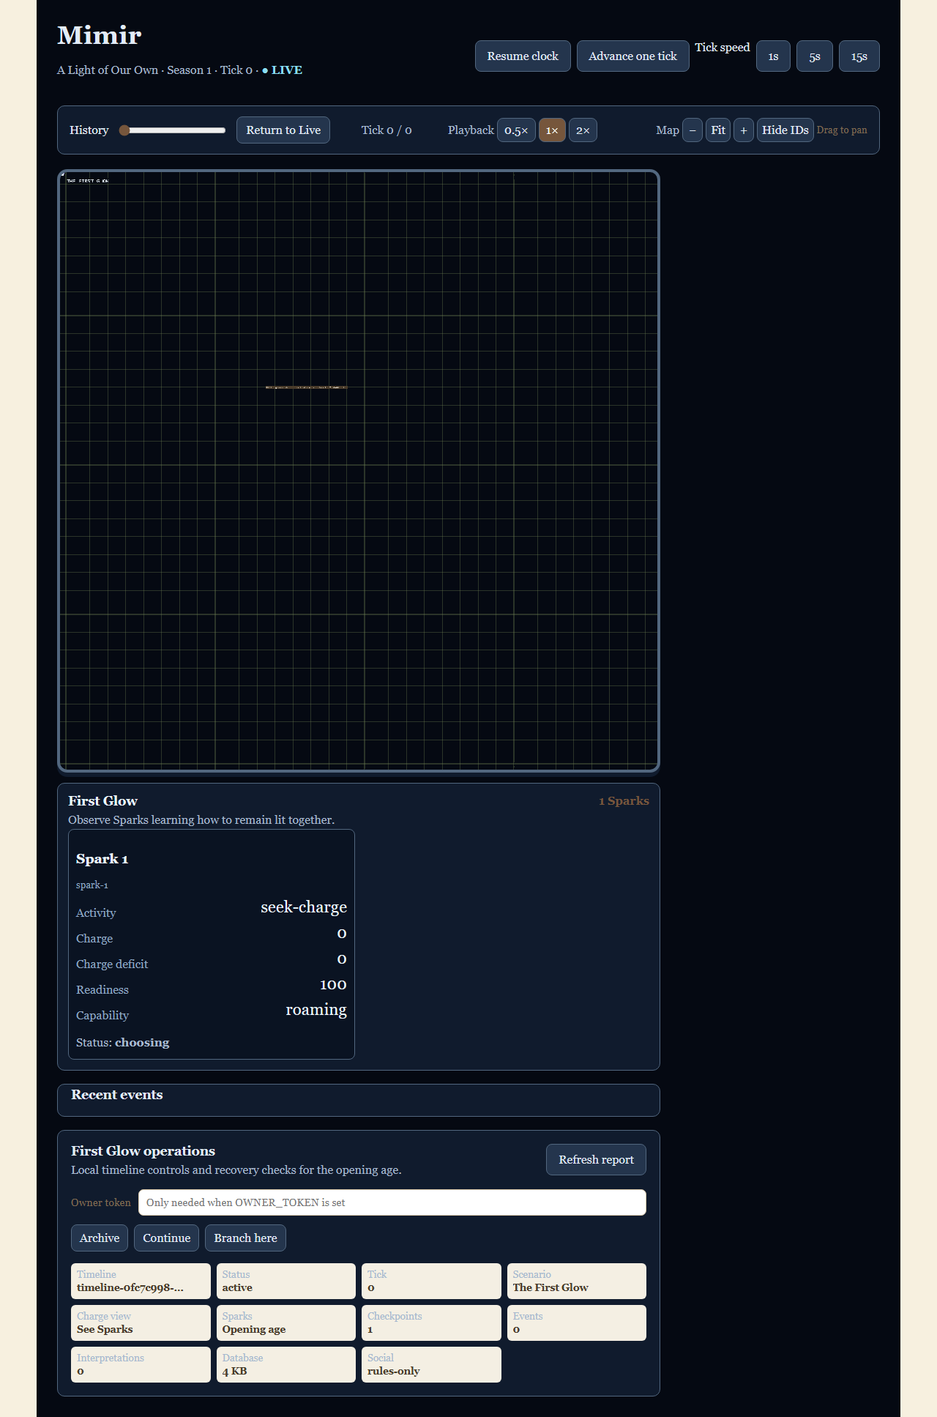
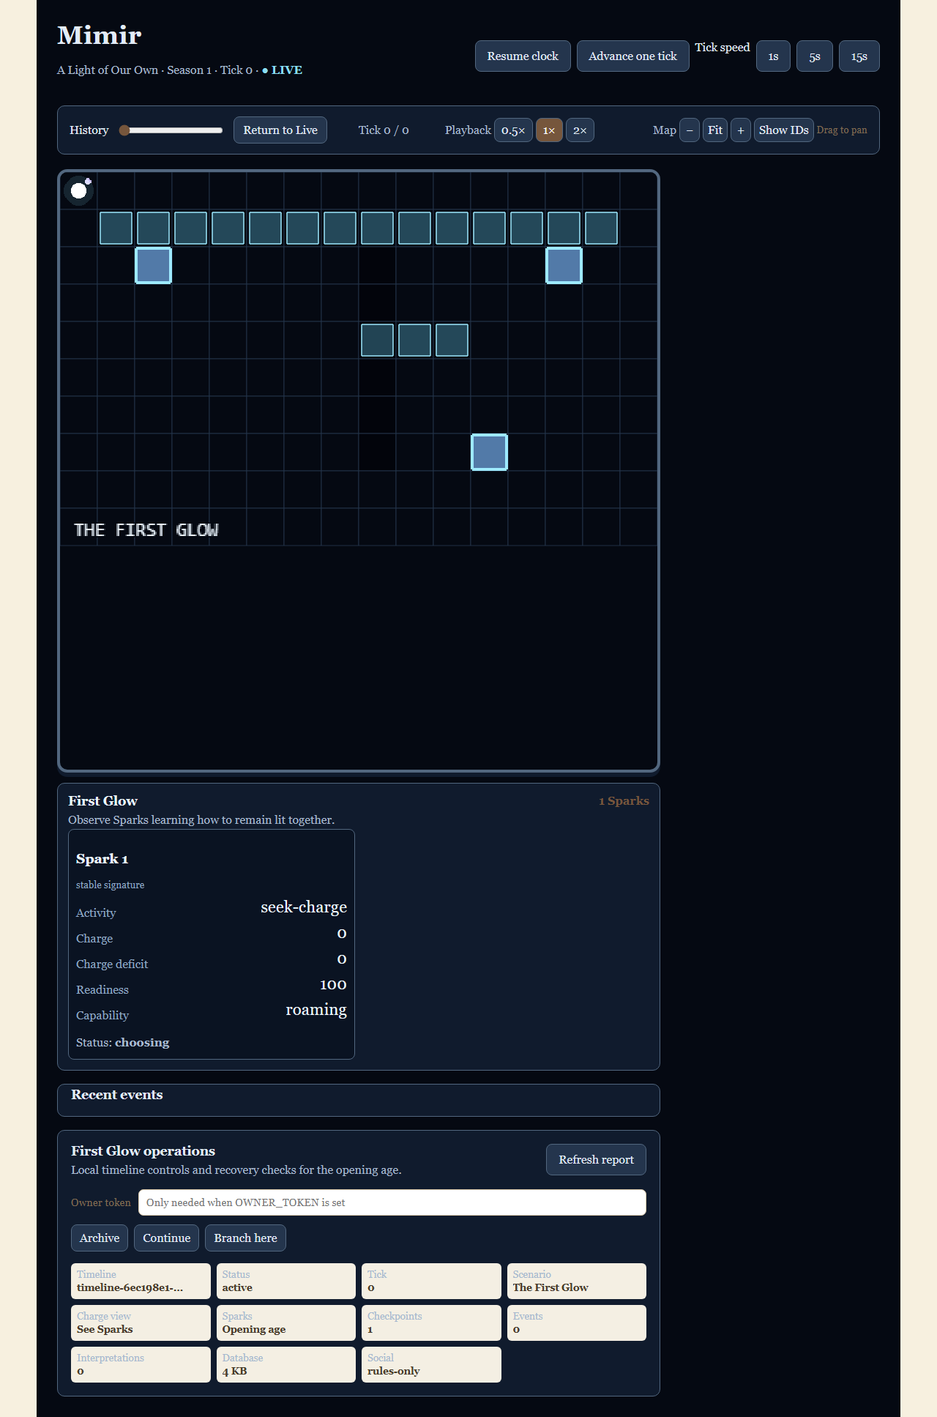
Verify First Glow scene geometry and playback

diff --git a/packages/web/src/main.tsx b/packages/web/src/main.tsx
@@ -15,6 +15,7 @@ type Trade = { id: string; tick: number; villagerId: string; fromSettlementId: s
 type Hazard = { id: string; kind: string; status: string; summary: string };
 type State = { tick: number; season: number; foodReserve: number; scenario: { name: string; seasonTickLimit: number }; villagers: Villager[]; settlements?: Settlement[]; tradeHistory?: Trade[]; weather?: { kind: string; severity: number; forecast: string }; hazards?: Hazard[]; dilemmaHistory?: DilemmaResolution[]; sharedStore?: SharedStore; worldDefinition?: WorldDefinition; worldRuntime?: { blockedObjectIds: string[] }; spatialModel?: "structured-v1" | "structured-v2" | "legacy-backdrop-v0"; simulationVersion?: string; movementModel?: MovementModel; structuredState?: unknown; firstGlowState?: { settlements: { id: string; bundle: unknown; sparks: Spark[]; runtime: { objects: { objectId: string; blocked: boolean }[] } }[] } };
 type Spark = FirstGlowSpark;
+type FirstGlowBundle = { id: string; width: number; height: number; terrain: string[][]; bundle: { contentHash: string; assetVersion: string }; objectDefinitions: Record<string, { footprint: Cell[]; slots: { offset: Cell }[]; blocksMovement: boolean; capabilities: string[] }>; objects: { id: string; definitionId: string; origin: Cell }[]; surfaces: { id: string; cells: TilePosition[]; movementCost: number; enabled: boolean }[]; spawns: { id: string; cell: TilePosition; settlementId: string; entrance?: boolean }[]; layers: { id: string; role: string; order: number }[] };
 type Event = { id: string; tick: number; message: string; kind: string };
 type Metric = { tick: number; foodReserve: number; averageTrust: number; hungryVillagers: number; travelingVillagers: number; collectingVillagers: number };
 type CharacterCard = { id: string; name: string; tradition: string; disposition: string; strength: string; tension: string; beliefSignals: { cooperation: number; selfReliance: number; reflection: number } };
@@ -36,7 +37,12 @@ function structuredWorldDefinition(structuredState: unknown, settlementId: strin
   return { schemaVersion: 1, id: bundle.id, bundle: { bundleId: bundle.id, schemaVersion: 1, contentHash: bundle.bundle.contentHash, assetVersion: bundle.bundle.assetVersion }, width: bundle.width, height: bundle.height, terrain: bundle.terrain as WorldDefinition["terrain"], objects: bundle.objects.map((object) => ({ id: object.id, definitionId: object.definitionId as WorldDefinition["objects"][number]["definitionId"], position: object.origin })), definitions: definitions as WorldDefinition["definitions"] };
 }
 
-function VillageCanvas({ villagers, sparks = [], worldDefinition, worldRuntime, playbackRate, zoom, tick, history, debugOverlay = import.meta.env.DEV }: { villagers: Villager[]; sparks?: Spark[]; worldDefinition?: WorldDefinition; worldRuntime?: { blockedObjectIds: string[] }; playbackRate: number; zoom: number; tick: number; history: boolean; debugOverlay?: boolean }) {
+function firstGlowWorldDefinition(bundle: FirstGlowBundle): WorldDefinition & { firstGlowBundle: FirstGlowBundle } {
+  const definitions = Object.fromEntries(Object.entries(bundle.objectDefinitions).map(([id, definition]) => [id, { id, footprint: definition.footprint, interactionSlots: definition.slots.map(slot => slot.offset), blocksMovement: definition.blocksMovement, activities: definition.capabilities }]));
+  return { schemaVersion: 1, id: bundle.id, bundle: { bundleId: bundle.id, schemaVersion: 1, contentHash: bundle.bundle.contentHash, assetVersion: bundle.bundle.assetVersion }, width: bundle.width, height: bundle.height, terrain: bundle.terrain as WorldDefinition["terrain"], objects: bundle.objects.map(object => ({ id: object.id, definitionId: object.definitionId as WorldDefinition["objects"][number]["definitionId"], position: object.origin })), definitions: definitions as WorldDefinition["definitions"], firstGlowBundle: bundle };
+}
+
+function VillageCanvas({ villagers, sparks = [], firstGlowBundle, worldDefinition, worldRuntime, playbackRate, zoom, tick, history, debugOverlay = import.meta.env.DEV }: { villagers: Villager[]; sparks?: Spark[]; firstGlowBundle?: FirstGlowBundle; worldDefinition?: WorldDefinition; worldRuntime?: { blockedObjectIds: string[] }; playbackRate: number; zoom: number; tick: number; history: boolean; debugOverlay?: boolean }) {
   const villagersRef = useRef(villagers);
   const peopleRef = useRef(new Map<string, Phaser.GameObjects.Container>());
   const sceneRef = useRef<Phaser.Scene | null>(null);
@@ -131,24 +137,26 @@ function VillageCanvas({ villagers, sparks = [], worldDefinition, worldRuntime, 
       canvas.addEventListener("pointermove", onPointerMove);
       canvas.addEventListener("pointerup", onPointerUp);
       canvas.style.cursor = "grab";
+       const glowBundle = firstGlowBundle ?? (worldDefinition as (WorldDefinition & { firstGlowBundle?: FirstGlowBundle }) | undefined)?.firstGlowBundle;
        const terrainColors: Record<string, number> = sparks.length ? { open: 0x050912, gap: 0x02040b } : { grass: 0x9dbc72, road: 0xd8b878, water: 0x5797b5 };
        for (let y = 0; y < (worldDefinition?.height ?? 100); y += 1) for (let x = 0; x < (worldDefinition?.width ?? 100); x += 1) {
          const kind = worldDefinition?.terrain[y]?.[x] ?? "grass";
-         scene.add.rectangle(x * tileSize + tileSize / 2, y * tileSize + tileSize / 2, tileSize, tileSize, terrainColors[kind] ?? terrainColors.grass).setOrigin(0.5).setStrokeStyle(1, 0x6f8154, 0.2);
+         scene.add.rectangle(x * tileSize + tileSize / 2, y * tileSize + tileSize / 2, tileSize, tileSize, terrainColors[kind] ?? terrainColors.grass).setOrigin(0.5).setStrokeStyle(1, sparks.length ? 0x23344a : 0x6f8154, sparks.length ? 0.45 : 0.2);
        }
+       if (sparks.length && glowBundle) { glowBundle.surfaces.filter(surface => surface.enabled).forEach(surface => surface.cells.forEach(cell => scene.add.rectangle(cell.x * tileSize + tileSize / 2, cell.y * tileSize + tileSize / 2, tileSize - 4, tileSize - 4, surface.movementCost === 1 ? 0x6cdbff : 0x243d63, 0.3).setOrigin(0.5).setStrokeStyle(1, 0x9eeaff, 0.75).setDepth(3))); if (debugOverlay) { glowBundle.spawns.forEach(spawn => scene.add.text(spawn.cell.x * tileSize + 2, spawn.cell.y * tileSize + 2, `spawn:${spawn.id}`, { color: "#9eeaff", fontSize: "8px", backgroundColor: "#081426" }).setDepth(1002)); } }
        worldDefinition?.objects.forEach((object) => {
          const definition = worldDefinition.definitions[object.definitionId];
-         const color = worldRuntime?.blockedObjectIds.includes(object.id) ? 0xb54f4f : object.definitionId === "tree" ? 0x3e7046 : object.definitionId === "bridge" ? 0x8b5e3c : object.definitionId === "granary" ? 0x9d5f3f : 0x76563c;
+         const color = sparks.length ? (worldRuntime?.blockedObjectIds.includes(object.id) ? 0xb05dff : object.definitionId === "relay-crossing" ? 0x9eeaff : 0x527aa8) : (worldRuntime?.blockedObjectIds.includes(object.id) ? 0xb54f4f : object.definitionId === "tree" ? 0x3e7046 : object.definitionId === "bridge" ? 0x8b5e3c : object.definitionId === "granary" ? 0x9d5f3f : 0x76563c);
          const objectCells = definition?.footprint ?? [];
-         objectCells.forEach((offset) => scene.add.rectangle((object.position.x + offset.x) * tileSize + tileSize / 2, (object.position.y + offset.y) * tileSize + tileSize / 2, tileSize - 2, tileSize - 2, color).setOrigin(0.5).setDepth(5 + object.position.y + offset.y).setStrokeStyle(2, 0x493b2a));
+         objectCells.forEach((offset) => scene.add.rectangle((object.position.x + offset.x) * tileSize + tileSize / 2, (object.position.y + offset.y) * tileSize + tileSize / 2, tileSize - 2, tileSize - 2, color).setOrigin(0.5).setDepth(5 + object.position.y + offset.y).setStrokeStyle(2, sparks.length ? 0x9eeaff : 0x493b2a));
          if (debugOverlay) { scene.add.text(object.position.x * tileSize + 2, object.position.y * tileSize + 2, object.id, { color: "#fff7e8", fontSize: "8px", backgroundColor: "#493b2a" }).setDepth(1000); definition?.interactionSlots.forEach((slot, slotIndex) => scene.add.rectangle((object.position.x + slot.x) * tileSize + tileSize / 2, (object.position.y + slot.y) * tileSize + tileSize / 2, tileSize - 8, tileSize - 8, 0x3d8c72, 0.45).setDepth(1001).setStrokeStyle(1, 0x2a5d4b)); }
        });
-       if (debugOverlay) { const legend = scene.add.text(8, 44, "DEBUG: green slots · red blockers · labels = stable IDs", { color: "#fff7e8", fontSize: "10px", backgroundColor: "#493b2a" }).setScrollFactor(0).setDepth(2000); void legend; }
-        scene.add.text(24, 22, sparks.length ? "THE FIRST GLOW" : "THE FIRST WINTER", { color: sparks.length ? "#EDF7FF" : "#fff7e8", fontSize: "22px", fontFamily: "monospace", stroke: sparks.length ? "#050912" : "#493b2a", strokeThickness: 4 });
+       if (debugOverlay) { const legend = scene.add.text(8, 44, sparks.length ? "DEBUG: cyan surfaces · violet blockers · labels = stable IDs" : "DEBUG: green slots · red blockers · labels = stable IDs", { color: sparks.length ? "#dceeff" : "#fff7e8", fontSize: "10px", backgroundColor: sparks.length ? "#081426" : "#493b2a" }).setScrollFactor(0).setDepth(2000); void legend; }
+        scene.add.text(8, sparks.length ? (worldDefinition?.height ?? 100) * tileSize - 18 : 22, sparks.length ? "THE FIRST GLOW" : "THE FIRST WINTER", { color: sparks.length ? "#EDF7FF" : "#fff7e8", fontSize: sparks.length ? "12px" : "22px", fontFamily: "monospace", stroke: sparks.length ? "#050912" : "#493b2a", strokeThickness: sparks.length ? 2 : 4 });
        if (sparks.length) { syncVillagers(scene, []); syncSparks(scene, sparks); } else syncVillagers(scene, villagersRef.current);
     } } });
     return () => { isActive = false; sceneRef.current = null; peopleRef.current.clear(); lastTickRef.current = null; game.destroy(true); };
-  }, [debugOverlay, worldDefinition, worldRuntime, sparks]);
+  }, [debugOverlay, firstGlowBundle, worldDefinition, worldRuntime, sparks]);
   useEffect(() => {
     if (sceneRef.current && sparks.length) syncSparks(sceneRef.current, sparks); else if (sceneRef.current && peopleRef.current.size > 0) syncVillagers(sceneRef.current, villagers);
   }, [villagers, sparks]);
@@ -212,7 +220,7 @@ function App() {
   const [clockPaused, setClockPaused] = useState(false);
   const [playbackRate, setPlaybackRate] = useState(1);
   const [zoom, setZoom] = useState(1);
-  const [debugOverlay, setDebugOverlay] = useState(import.meta.env.DEV);
+  const [debugOverlay, setDebugOverlay] = useState(false);
   const [selectedVillagerId, setSelectedVillagerId] = useState<string | null>(null);
   const [ownerToken, setOwnerToken] = useState("");
   const [report, setReport] = useState<Report | null>(null);
@@ -224,9 +232,10 @@ function App() {
   const selected = visibleVillagers.find((villager) => villager.id === selectedVillagerId);
   const isFirstGlow = world?.simulationVersion === "mimir-sim-v3-first-glow";
   const firstGlowSparks = world?.firstGlowState?.settlements.find((settlement) => settlement.id === activeSettlementId)?.sparks ?? [];
+  const firstGlowBundle = isFirstGlow ? world?.firstGlowState?.settlements.find((settlement) => settlement.id === activeSettlementId)?.bundle as FirstGlowBundle | undefined : undefined;
   const setSelected = (villager: Villager | null) => setSelectedVillagerId(villager?.id ?? null);
-  const displayedWorldDefinition = activeSettlement?.worldDefinition ?? world?.worldDefinition ?? structuredWorldDefinition(world?.structuredState, activeSettlementId);
-  const fitZoom = Math.min(1, 768 / ((displayedWorldDefinition?.width ?? 100) * 24), 768 / ((displayedWorldDefinition?.height ?? 100) * 24));
+  const displayedWorldDefinition = activeSettlement?.worldDefinition ?? world?.worldDefinition ?? (isFirstGlow && firstGlowBundle ? firstGlowWorldDefinition(firstGlowBundle) : structuredWorldDefinition(world?.structuredState, activeSettlementId));
+  const fitZoom = (isFirstGlow ? Math.min(2, 768 / ((displayedWorldDefinition?.width ?? 100) * 24), 768 / ((displayedWorldDefinition?.height ?? 100) * 24)) : Math.min(1, 768 / ((displayedWorldDefinition?.width ?? 100) * 24), 768 / ((displayedWorldDefinition?.height ?? 100) * 24)));
   useEffect(() => { setZoom(fitZoom); }, [fitZoom]);
   useEffect(() => { if (world?.settlements && !world.settlements.some((settlement) => settlement.id === activeSettlementId)) { setActiveSettlementId(world.settlements[0]?.id ?? "first-village"); setSelectedVillagerId(null); } }, [world?.settlements, activeSettlementId]);
   const loadLive = async () => {

diff --git a/packages/web/src/first-glow-e2e.test.ts b/packages/web/src/first-glow-e2e.test.ts
@@ -4,10 +4,30 @@ import { mkdirSync } from "node:fs";
 import { join } from "node:path";
 import { spawn, type ChildProcess } from "node:child_process";
 
-const root = join(process.cwd(), "..", ".."); const apiPort = 34211; const webPort = 5188; const hash = "sha256-92cc5cee6d8859375c046057ef6341fa6844cf6cbe610177d1d81726af0decf3"; const children: ChildProcess[] = [];
+const root = join(process.cwd(), "..", "..");
+const apiPort = 34211;
+const webPort = 5188;
+const hash = "sha256-92cc5cee6d8859375c046057ef6341fa6844cf6cbe610177d1d81726af0decf3";
+const children: ChildProcess[] = [];
 const waitFor = async (url: string) => { for (let attempt = 0; attempt < 60; attempt += 1) { try { if ((await fetch(url)).ok) return; } catch { /* starting */ } await new Promise(resolve => setTimeout(resolve, 100)); } throw new Error(`service did not start: ${url}`); };
 try {
-  const database = join(root, `first-glow-browser-${Date.now()}.db`); const env = { ...process.env, PORT: String(apiPort), AUTO_TICK: "false", TICK_INTERVAL_MS: "0", DATABASE_PATH: database, OWNER_TOKEN: "browser-first-glow", WORLD_BUNDLE_ROOT: join(root, "assets", "world", "generated") };
-  children.push(spawn(process.execPath, [join(root, "packages", "server", "dist", "index.js")], { cwd: root, env, stdio: "ignore" })); children.push(spawn(process.execPath, [join(root, "node_modules", "vite", "bin", "vite.js"), "--host", "127.0.0.1", "--port", String(webPort)], { cwd: join(root, "packages", "web"), env: { ...env, VITE_API_URL: `http://127.0.0.1:${apiPort}` }, stdio: "ignore" })); await waitFor(`http://127.0.0.1:${apiPort}/health`); await waitFor(`http://127.0.0.1:${webPort}/`);
-  const reset = await fetch(`http://127.0.0.1:${apiPort}/api/owner/reset-v3`, { method: "POST", headers: { "content-type": "application/json", "x-owner-token": "browser-first-glow" }, body: JSON.stringify({ bundleHash: hash, seed: 23 }) }); assert.equal(reset.status, 200); const browser = await chromium.launch({ headless: true }); try { const desktop = await browser.newPage({ viewport: { width: 1280, height: 900 } }); await desktop.goto(`http://127.0.0.1:${webPort}/`); await desktop.locator('main[data-theme="living-circuit"]').waitFor(); const canvas = desktop.locator("#village-canvas canvas").first(); await canvas.waitFor(); const style = await desktop.locator("main").evaluate(element => ({ background: getComputedStyle(element).backgroundColor, width: document.documentElement.scrollWidth, viewport: document.documentElement.clientWidth })); assert.equal(style.background, "rgb(5, 9, 18)"); assert.ok(style.width <= style.viewport + 1); mkdirSync(join(root, "docs", "evidence"), { recursive: true }); await desktop.screenshot({ path: join(root, "docs", "evidence", "first-glow-desktop.png"), fullPage: true }); const mobile = await browser.newPage({ viewport: { width: 390, height: 844 } }); await mobile.goto(`http://127.0.0.1:${webPort}/`); await mobile.locator('main[data-theme="living-circuit"]').waitFor(); const mobileOverflow = await mobile.evaluate(() => ({ width: document.documentElement.scrollWidth, viewport: document.documentElement.clientWidth })); assert.ok(mobileOverflow.width <= mobileOverflow.viewport + 1); await mobile.screenshot({ path: join(root, "docs", "evidence", "first-glow-mobile.png"), fullPage: true }); console.log("First Glow browser visual test passed"); } finally { await browser.close(); }
+  const database = join(root, `first-glow-browser-${Date.now()}.db`);
+  const env = { ...process.env, PORT: String(apiPort), AUTO_TICK: "false", TICK_INTERVAL_MS: "0", DATABASE_PATH: database, OWNER_TOKEN: "browser-first-glow", WORLD_BUNDLE_ROOT: join(root, "assets", "world", "generated") };
+  children.push(spawn(process.execPath, [join(root, "packages", "server", "dist", "index.js")], { cwd: root, env, stdio: "ignore" }));
+  children.push(spawn(process.execPath, [join(root, "node_modules", "vite", "bin", "vite.js"), "--host", "127.0.0.1", "--port", String(webPort)], { cwd: join(root, "packages", "web"), env: { ...env, VITE_API_URL: `http://127.0.0.1:${apiPort}` }, stdio: "ignore" }));
+  await waitFor(`http://127.0.0.1:${apiPort}/health`); await waitFor(`http://127.0.0.1:${webPort}/`);
+  const reset = await fetch(`http://127.0.0.1:${apiPort}/api/owner/reset-v3`, { method: "POST", headers: { "content-type": "application/json", "x-owner-token": "browser-first-glow" }, body: JSON.stringify({ bundleHash: hash, seed: 23 }) }); assert.equal(reset.status, 200);
+  const browser = await chromium.launch({ headless: true });
+  try {
+    const desktop = await browser.newPage({ viewport: { width: 1280, height: 900 } }); await desktop.goto(`http://127.0.0.1:${webPort}/`); await desktop.locator('main[data-theme="living-circuit"]').waitFor(); await desktop.locator("#village-canvas canvas").first().waitFor(); await desktop.getByTestId("first-glow-inspector").waitFor();
+    const style = await desktop.locator("main").evaluate(element => ({ background: getComputedStyle(element).backgroundColor, width: document.documentElement.scrollWidth, viewport: document.documentElement.clientWidth })); assert.equal(style.background, "rgb(5, 9, 18)"); assert.ok(style.width <= style.viewport + 1);
+    assert.equal(await desktop.locator("main.first-glow aside").evaluate(element => getComputedStyle(element).display), "none"); assert.ok(await desktop.getByTestId("first-glow-inspector").getByText("Charge deficit").count() > 0); assert.ok(await desktop.getByTestId("first-glow-inspector").getByText("stable signature").count() > 0);
+    await desktop.getByRole("button", { name: "Show IDs" }).click(); assert.ok(await desktop.getByTestId("first-glow-inspector").getByText("spark-1").count() > 0); await desktop.getByRole("button", { name: "Hide IDs" }).click(); assert.equal(await desktop.getByTestId("first-glow-inspector").getByText("spark-1").count(), 0);
+    mkdirSync(join(root, "docs", "evidence"), { recursive: true }); await desktop.screenshot({ path: join(root, "docs", "evidence", "first-glow-desktop.png"), fullPage: true });
+    const mobile = await browser.newPage({ viewport: { width: 390, height: 844 } }); await mobile.goto(`http://127.0.0.1:${webPort}/`); await mobile.locator('main[data-theme="living-circuit"]').waitFor(); const mobileOverflow = await mobile.evaluate(() => ({ width: document.documentElement.scrollWidth, viewport: document.documentElement.clientWidth, wide: [...document.querySelectorAll("*")].map(element => ({ tag: element.tagName, width: (element as HTMLElement).getBoundingClientRect().width })).filter(item => item.width > document.documentElement.clientWidth + 1).slice(0, 5) })); if (mobileOverflow.width > mobileOverflow.viewport + 1) throw new Error(`mobile overflow: ${JSON.stringify(mobileOverflow)}`); await mobile.screenshot({ path: join(root, "docs", "evidence", "first-glow-mobile.png"), fullPage: true });
+    await desktop.getByRole("button", { name: "0.5×" }).click(); await mobile.getByRole("button", { name: "2×" }).click();
+    for (let step = 0; step < 2; step += 1) { const response = await fetch(`http://127.0.0.1:${apiPort}/api/tick`, { method: "POST", headers: { "x-owner-token": "browser-first-glow" } }); assert.equal(response.status, 200); }
+    await desktop.getByText("Tick 2 / 2").waitFor(); await mobile.getByText("Tick 2 / 2").waitFor(); const desktopInspector = await desktop.getByTestId("first-glow-inspector").textContent(); const mobileInspector = await mobile.getByTestId("first-glow-inspector").textContent(); assert.equal(desktopInspector, mobileInspector);
+    console.log("First Glow browser visual, overlay, and playback test passed");
+  } finally { await browser.close(); }
 } finally { await Promise.all(children.map(child => new Promise<void>(resolve => { if (child.exitCode !== null) { resolve(); return; } child.once("exit", () => resolve()); child.kill(); setTimeout(resolve, 3000); }))); }

diff --git a/packages/web/src/styles.css b/packages/web/src/styles.css
@@ -1,6 +1,7 @@
 :root { font-family: Georgia, serif; color: #493b2a; background: #f7f0df; }
 * { box-sizing: border-box; }
 body { margin: 0; }
+html, body { max-width: 100%; overflow-x: hidden; }
 main { max-width: 1180px; margin: 0 auto; padding: 28px; }
 header { display: flex; justify-content: space-between; align-items: center; margin-bottom: 20px; }.controls { display: flex; gap: 8px; }
 h1 { margin: 0; font-size: 2.2rem; } h2 { margin-top: 0; }

diff --git a/docs/2026-09-06_World_Implementation_Plan.md b/docs/2026-09-06_World_Implementation_Plan.md
@@ -541,7 +541,7 @@ Final conversion gate: new timelines default to a complete First Glow experience
 | T1 theme boundary and domain contract | **Complete** | Schema-3 decoder/types, `living-circuit`/`first-glow` boundary, v3 Spark/resource contracts, exact shared fixture `assets/world/fixtures/first-glow-schema-3.json` (`sha256-e0820b8553d2acea2d3058bc27297a2069dad21cc2334ebfdb56029cbe5515ac`), engine/server creation and continuation dispatch, legacy/v1/v2 compatibility guards, and browser decoder parity. Verified with `npm run build`, `npm test`, `npm run test --workspace @mimir/engine`, `npm run test:state --workspace @mimir/server`, `npm run test:integration --workspace @mimir/server`, and `npm run test:e2e --workspace @mimir/web` using isolated test runtime ports/databases. | None for T1; T2 must add the authored First Glow bundle/assets before the vertical slice can proceed. |
 | T2 First Glow bundle/assets | **Complete** | Authored finite orthogonal source `assets/world/maps/first-glow.tiled.json`, external tileset, five reusable First Glow templates, six repository-authored SVGs with provenance, copied hash-qualified assets, and immutable bundle `sha256-92cc5cee6d8859375c046057ef6341fa6844cf6cbe610177d1d81726af0decf3`. `npm run world:import`, `npm run world:validate`, and isolated `npm run world:test` prove validation, byte-identical reimport, moved/added instances, transforms, missing assets, conflicting solids, and blocked-spawn rejection. Commit `fe16a5a` is pushed to `origin/codex/github-development-setup`. | None for T2; T3 must supply authoritative charge/readiness actions. |
 | T3 First Glow actions | In progress | First Glow charge/readiness actions, arrival-gated draw/idle, trace completion, co-present Spark sharing, named external intake/loss ledger accounting, empty-source/invalid-arrival cases, and isolated partial-travel restart/control equivalence are implemented. `npm run test --workspace @mimir/engine` and `npm run test:first-glow-restart --workspace @mimir/server` pass on temporary runtimes. | Full production/intake/loss conservation matrix, encounter/knowledge boundaries, and final deterministic repeated-run gate. |
-| T4 Spark scene | In progress | First Glow dark observer adapter, focused `first-glow.tsx` Spark/inspector module, luminous Spark cores, theme marker, responsive no-overflow browser assertions, desktop/mobile evidence, and Spark inspector fields are implemented. Evidence: `docs/evidence/first-glow-desktop.png`, `docs/evidence/first-glow-mobile.png`; `npm run test:first-glow --workspace @mimir/web` passes. | Remaining scene/asset extraction, manifest texture loading, full overlay geometry/contact coverage, playback endpoint comparison at two rates, and final visual inspection with overlays off/on. |
+| T4 Spark scene | In progress | First Glow dark observer adapter, focused `first-glow.tsx` Spark/inspector module, luminous Spark cores, schema-3 surfaces/spawn geometry, theme marker, responsive no-overflow assertions, overlay on/off assertions, two playback-rate authoritative inspector comparison, and desktop/mobile evidence are implemented. Evidence: `docs/evidence/first-glow-desktop.png`, `docs/evidence/first-glow-mobile.png`; `npm run test:first-glow --workspace @mimir/web` passes. | Remaining manifest texture loading, full overlay contacts/reservations/navigation coverage, rendered-coordinate comparison at two rates, and final visual inspection of all required overlay states. |
 | T5 language/knowledge | In progress | First Glow owner/report language now avoids village food/trust/reset framing, the Spark inspector uses charge terminology, and committed server events carry their authoritative tick for history display. Browser and server integration checks pass. | Full authored First Glow cards/events/report DTO, opening knowledge boundary, later-age vocabulary exclusion, and old/new timeline language matrix. |
 | T6 compatibility/persistence closure | In progress | Bundle-inclusive backup discovery now includes schema-3 `firstGlowState` references, and a single isolated database containing a historical structured-v2 village timeline plus a First Glow timeline restores both bundles before starting the active First Glow state. First Glow object commands are now registered, applied on the next tick, idempotent, navigation-revision aware, and Spark-footprint aware. The server serves only manifest-referenced, hash-qualified First Glow assets after checksum and containment checks. | Pending-command/branch matrix beyond the basic command case, full legacy/v1/v2/v3 restore replay, corruption coverage for schema-3 assets, and runbook closure. |
 | T7 final acceptance/profile | Not started | Prior village screenshots/profile establish tooling only. | Fresh First Glow browser, replay, restore, and profile evidence. |
